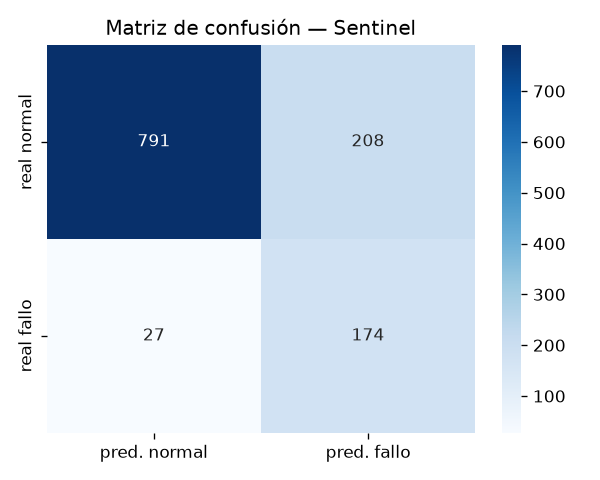
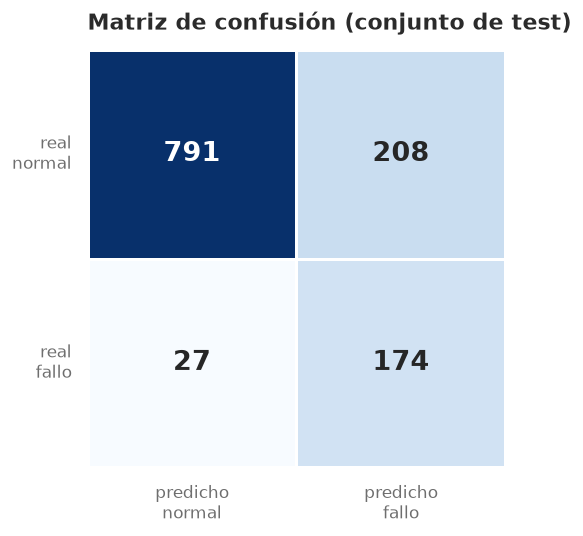
style: tema visual profesional y consistente en las graficas (EDA + matriz de confusion)

diff --git a/src/viz_style.py b/src/viz_style.py
@@ -1,0 +1,56 @@
+"""
+🧭 MIGA DE PAN: Tema visual y paleta consistente para las gráficas
+📍 UBICACIÓN: src/viz_style.py
+
+🎯 PORQUÉ EXISTE: Da a todas las gráficas (EDA + matriz de confusión) un aspecto profesional
+   y coherente — se leen "como un sistema", no como capturas sueltas. Cada color se asigna
+   según su TRABAJO: categórico (normal vs fallo), secuencial (magnitud), diverging (±correlación).
+🚨 CUIDADO: llamar `apply_style()` UNA vez antes de crear las figuras. El color de "fallo" es
+   rojo a propósito (semántica de estado crítico); "normal" es azul sobrio.
+📋 SPEC: SPEC-001-sentinel — R2/R5 (pulido visual de las gráficas) — CREATED
+"""
+
+from __future__ import annotations
+import matplotlib.pyplot as plt
+import seaborn as sns
+
+# --- Paleta categórica (identidad: normal vs fallo) ---
+COLOR_NORMAL = "#4C78A8"   # azul sobrio  -> servidor normal
+COLOR_FALLO = "#E45756"    # rojo/coral   -> servidor en fallo (estado crítico)
+
+# --- Tintas de texto (el texto NUNCA lleva el color de la serie) ---
+INK = "#2B2B2B"
+MUTED = "#6E6E6E"
+
+# --- Colormaps por trabajo ---
+CMAP_SEQUENTIAL = "Blues"    # magnitud (conteos de la matriz de confusión)
+CMAP_DIVERGING = "RdBu_r"    # polaridad (correlaciones de -1 a +1, gris neutro en 0)
+
+
+def apply_style() -> None:
+    """Configura un tema limpio y profesional para matplotlib + seaborn."""
+    sns.set_theme(style="white")
+    plt.rcParams.update({
+        "figure.facecolor": "white",
+        "axes.facecolor": "white",
+        "savefig.facecolor": "white",
+        "axes.edgecolor": "#D8D8D8",
+        "axes.linewidth": 1.0,
+        "axes.grid": False,
+        "axes.spines.top": False,
+        "axes.spines.right": False,
+        "font.family": "DejaVu Sans",
+        "font.size": 11,
+        "axes.titlesize": 13,
+        "axes.titleweight": "bold",
+        "axes.titlecolor": INK,
+        "axes.titlepad": 12,
+        "axes.labelsize": 11,
+        "axes.labelcolor": MUTED,
+        "text.color": INK,
+        "xtick.color": MUTED,
+        "ytick.color": MUTED,
+        "xtick.labelsize": 10,
+        "ytick.labelsize": 10,
+        "figure.dpi": 120,
+    })

diff --git a/src/eda.py b/src/eda.py
@@ -3,10 +3,9 @@
 📍 UBICACIÓN: src/eda.py
 
 🎯 PORQUÉ EXISTE: Cubre el punto "Análisis Exploratorio (EDA): visualización de correlaciones
-   y preparación de datos" de la prueba. Genera las gráficas y deja por escrito las decisiones
-   de preparación (por qué escalar, por qué estratificar, por qué priorizar recall).
-🚨 CUIDADO: usa backend 'Agg' (guarda a archivo, no abre ventana) para poder correr en
-   servidores/CI sin entorno gráfico. Depende de que exista `data/sensors.csv`.
+   y preparación de datos" de la prueba. Genera las gráficas (con un tema visual profesional
+   y consistente, ver viz_style.py) y deja por escrito las decisiones de preparación.
+🚨 CUIDADO: usa backend 'Agg' (guarda a archivo, no abre ventana). Depende de `data/sensors.csv`.
 📋 SPEC: SPEC-001-sentinel — R2 (EDA) — CREATED
 """
 
@@ -22,13 +21,22 @@ import seaborn as sns
 
 sys.path.insert(0, str(Path(__file__).resolve().parent))
 from generate_data import FEATURES, TARGET  # noqa: E402
+from viz_style import apply_style, COLOR_NORMAL, COLOR_FALLO, CMAP_DIVERGING, INK  # noqa: E402
 
 ROOT = Path(__file__).resolve().parents[1]
 DATA_PATH = ROOT / "data" / "sensors.csv"
 REPORTS = ROOT / "reports"
 
+SENSOR_TITLES = {
+    "temperature": "Temperatura (°C)",
+    "cpu_usage": "CPU (%)",
+    "memory_usage": "Memoria (%)",
+    "network_traffic": "Red (Mbps)",
+}
+
 
 def main() -> None:
+    apply_style()
     df = pd.read_csv(DATA_PATH)
     REPORTS.mkdir(exist_ok=True)
 
@@ -41,32 +49,40 @@ def main() -> None:
     print(f"Muestras: {len(df)}  |  Fallos: {n_fail} ({fail_rate:.1%})  |  Normales: {len(df)-n_fail}")
     print("→ Clase DESBALANCEADA: la accuracy engaña, priorizaremos el recall de la clase 'fallo'.")
 
-    # --- 1) Matriz de correlaciones ---
+    # --- 1) Matriz de correlaciones (diverging: -1..+1, gris neutro en 0) ---
     corr = df.corr(numeric_only=True)
-    plt.figure(figsize=(6, 5))
-    sns.heatmap(corr, annot=True, fmt=".2f", cmap="coolwarm", center=0, square=True,
-                cbar_kws={"shrink": 0.8})
-    plt.title("Matriz de correlaciones")
+    plt.figure(figsize=(6.5, 5.4))
+    sns.heatmap(
+        corr, annot=True, fmt=".2f", cmap=CMAP_DIVERGING, center=0, square=True,
+        vmin=-1, vmax=1, linewidths=1.2, linecolor="white",
+        annot_kws={"size": 10, "color": INK}, cbar_kws={"shrink": 0.75, "label": "correlación"},
+    )
+    plt.title("Correlación entre sensores y fallo", loc="left")
     plt.tight_layout()
-    plt.savefig(REPORTS / "correlations.png", dpi=120)
+    plt.savefig(REPORTS / "correlations.png", bbox_inches="tight")
     plt.close()
 
     print("\nCorrelación de cada sensor con 'failure':")
     for name, val in corr[TARGET].drop(TARGET).sort_values(ascending=False).items():
         print(f"  {name:18s} {val:+.3f}")
 
-    # --- 2) Distribución de cada sensor por clase (normal vs fallo) ---
-    fig, axes = plt.subplots(1, len(FEATURES), figsize=(16, 4))
+    # --- 2) Distribución de cada sensor por clase (categórico: normal vs fallo) ---
+    fig, axes = plt.subplots(1, len(FEATURES), figsize=(15, 4.4))
     for ax, feat in zip(axes, FEATURES):
-        sns.boxplot(data=df, x=TARGET, y=feat, ax=ax, hue=TARGET,
-                    palette=["#4c72b0", "#c44e52"], legend=False)
+        sns.boxplot(
+            data=df, x=TARGET, y=feat, ax=ax, hue=TARGET, legend=False,
+            palette={0: COLOR_NORMAL, 1: COLOR_FALLO},
+            width=0.62, fliersize=2, linewidth=1.2,
+        )
         ax.set_xticks([0, 1])
         ax.set_xticklabels(["normal", "fallo"])
         ax.set_xlabel("")
-        ax.set_title(feat)
-    plt.suptitle("Distribución de cada sensor: servidores normales vs fallos", y=1.02)
+        ax.set_ylabel("")
+        ax.set_title(SENSOR_TITLES.get(feat, feat), fontsize=12)
+    fig.suptitle("Distribución de cada sensor: servidores normales vs fallos",
+                 x=0.5, y=1.05, fontsize=15, fontweight="bold", color=INK)
     plt.tight_layout()
-    plt.savefig(REPORTS / "distributions.png", dpi=120, bbox_inches="tight")
+    plt.savefig(REPORTS / "distributions.png", bbox_inches="tight")
     plt.close()
 
     # --- Conclusiones (decisiones de preparación de datos) ---

diff --git a/src/evaluate.py b/src/evaluate.py
@@ -31,6 +31,7 @@ from sklearn.metrics import (
 sys.path.insert(0, str(Path(__file__).resolve().parent))
 from train import load_splits, MODEL_PATH  # noqa: E402  (reutiliza el MISMO split, misma semilla)
 from model import AnomalyMLP  # noqa: E402
+from viz_style import apply_style, CMAP_SEQUENTIAL  # noqa: E402
 
 ROOT = Path(__file__).resolve().parents[1]
 REPORTS_DIR = ROOT / "reports"
@@ -92,18 +93,21 @@ def main() -> None:
     print("  → Bajar el umbral captura más fallos (más recall) a costa de más falsas alarmas.")
     print("    En detección de anomalías se suele priorizar el recall.")
 
-    # --- Guardar matriz de confusión como imagen ---
+    # --- Guardar matriz de confusión como imagen (tema profesional) ---
+    apply_style()
     REPORTS_DIR.mkdir(exist_ok=True)
-    plt.figure(figsize=(5, 4))
-    sns.heatmap(
-        cm, annot=True, fmt="d", cmap="Blues",
-        xticklabels=[f"pred. {c}" for c in CLASS_NAMES],
-        yticklabels=[f"real {c}" for c in CLASS_NAMES],
+    plt.figure(figsize=(5.4, 4.6))
+    ax = sns.heatmap(
+        cm, annot=True, fmt="d", cmap=CMAP_SEQUENTIAL, cbar=False, square=True,
+        linewidths=1.5, linecolor="white", annot_kws={"size": 16, "weight": "bold"},
+        xticklabels=[f"predicho\n{c}" for c in CLASS_NAMES],
+        yticklabels=[f"real\n{c}" for c in CLASS_NAMES],
     )
-    plt.title("Matriz de confusión — Sentinel")
+    ax.set_title("Matriz de confusión (conjunto de test)", loc="left")
+    plt.yticks(rotation=0)
     plt.tight_layout()
     out = REPORTS_DIR / "confusion_matrix.png"
-    plt.savefig(out, dpi=120)
+    plt.savefig(out, bbox_inches="tight")
     plt.close()
     print(f"\n✅ Matriz de confusión guardada en {out}")
 